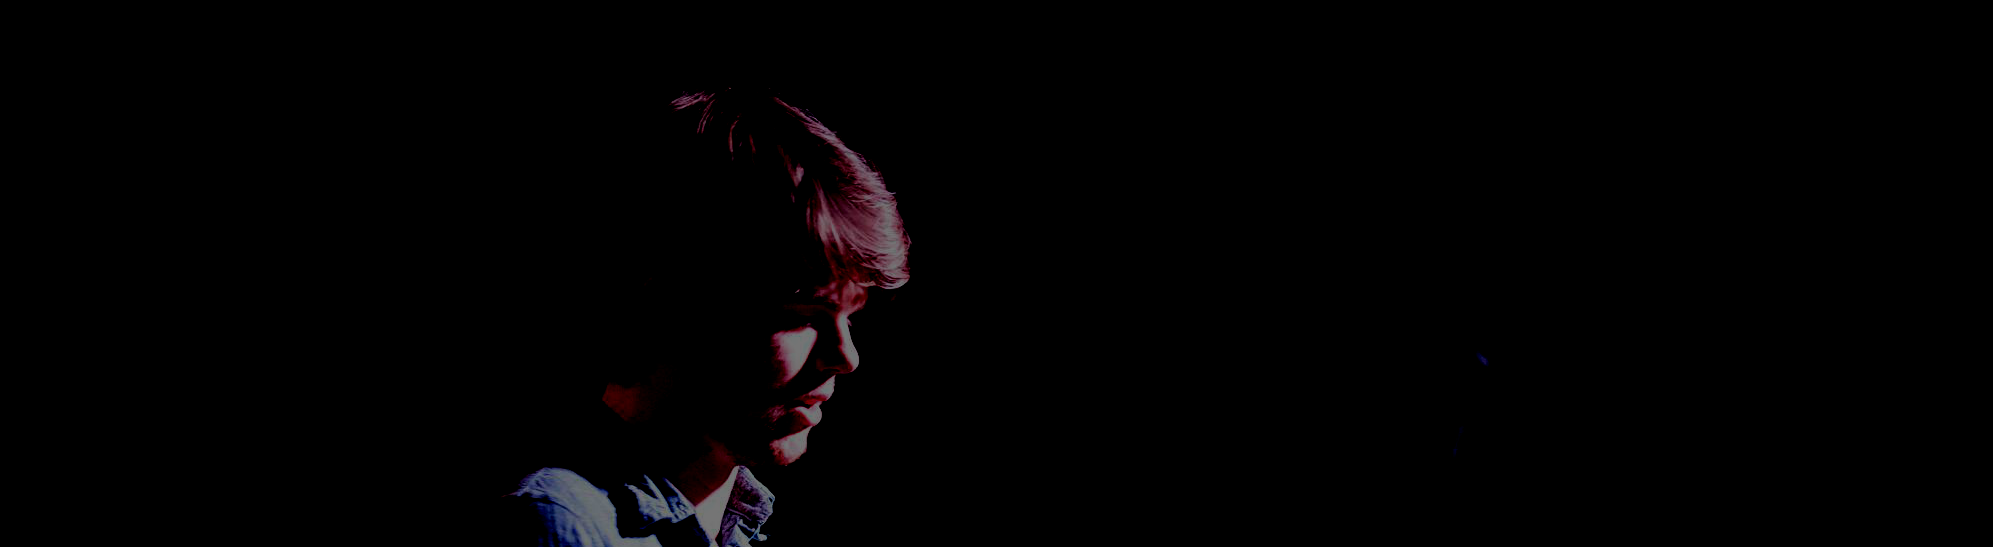
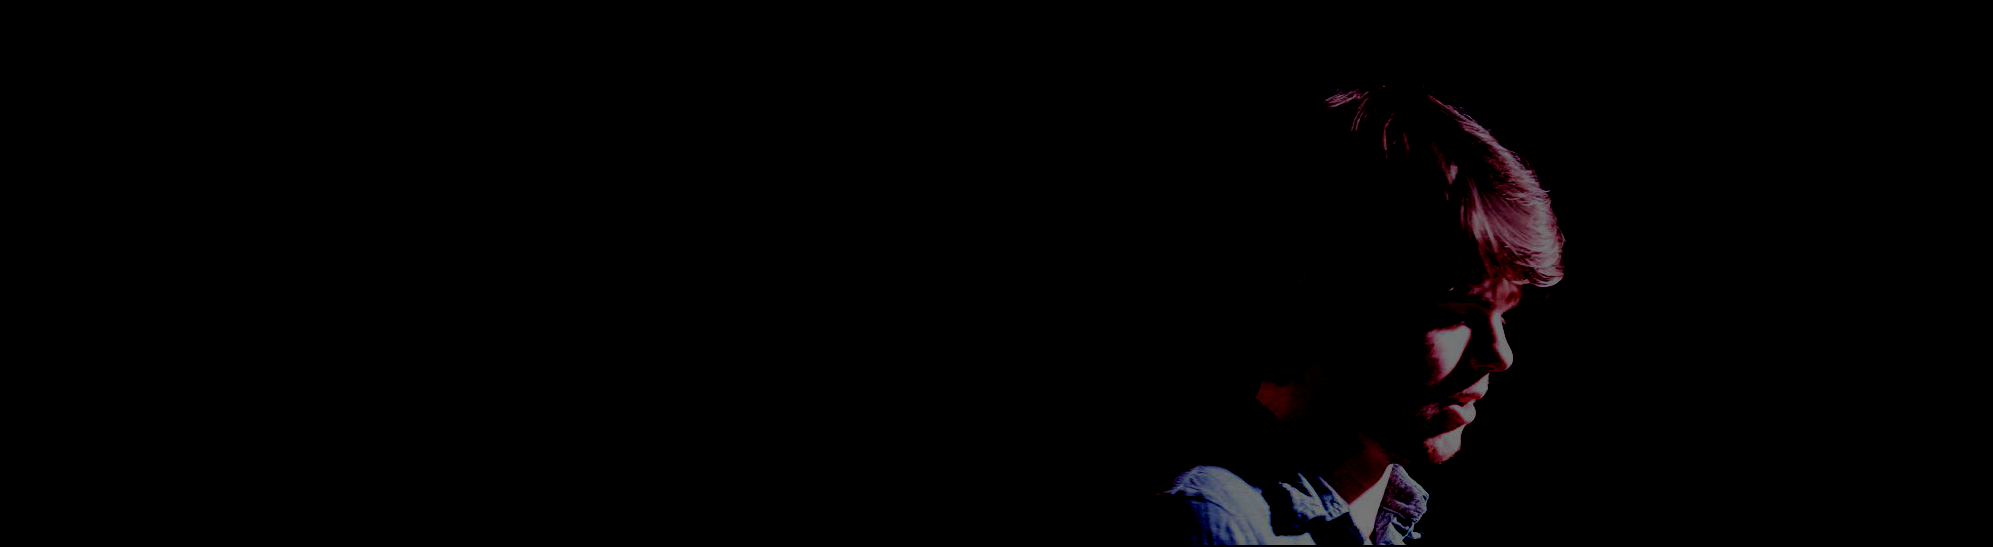
Created imagespace component

diff --git a/src/browser/pages/landing-page/landingPage.js b/src/browser/pages/landing-page/landingPage.js
@@ -2,6 +2,7 @@ import React from 'react';
 import Panel from '../../components/panel/panel';
 import Icon from '../../components/icon/icon';
 import Description from '../../components/description/description';
+import Imagespace from '../../components/imagespace/imagespace';
 
 const LandingPage = () =>
     <div>
@@ -9,18 +10,16 @@ const LandingPage = () =>
             <span className="menu__trigger">Menu</span>
             <span className="resume__trigger">My Resume</span>
         </div>
-        <Panel modifier="image" isHalf backgroundUrl={require('../../images/face-wide.png')}>
-            <div className="text-center">
-                <h1 className="heading-medium margin-bottom-small">Stefan McCready</h1>
-                <h2 className="heading-small">Designer - Developer</h2>
-                <div className="icon-set">
-                    <Icon iconName="facebook" setItem />
-                    <Icon iconName="instagram" setItem />
-                    <Icon iconName="github" setItem />
-                    <Icon iconName="twitter" setItem />
-                </div>
-            </div>
-        </Panel>
+        <Imagespace background={require('../../images/face-wide-v3.png')}>
+            <h1 className="heading-medium margin-bottom-small">Stefan McCready</h1>
+            <h2 className="heading-small">Designer - Developer</h2>
+            <div className="icon-set">
+                <Icon iconName="facebook" setItem />
+                <Icon iconName="instagram" setItem />
+                <Icon iconName="github" setItem />
+                <Icon iconName="twitter" setItem />
+             </div>
+        </Imagespace>
         <Panel modifier="alternative" isHalf>
             <div className="container">
                 <div className="section group">

diff --git a/src/browser/styles/scss/components/_imagespace.scss b/src/browser/styles/scss/components/_imagespace.scss
@@ -1,0 +1,45 @@
+$heroContentHeight: 500px;
+
+.imagespace-wrapper {
+  position: relative; /* [1] */
+  height: 600px; /* [2] */
+  min-height: 20em; /* [2] */
+  color: color(white); /* [3] */
+  background-position: center; /* [4] */
+  background-size: cover; /* [4] */
+}
+
+.imagespace {
+    overflow: hidden;
+    @include mq($from: tablet) {
+        height: $heroContentHeight;
+    }
+}
+
+.imagespace__background {
+    background-size: 100%;
+    background-repeat: no-repeat;
+
+    @include mq($from: tablet) {
+        height: $heroContentHeight;
+    }
+
+    @include mq($from: 1024px) {
+        background-position: center;
+        background-size: 1940px;
+    }
+}
+
+.imagespace__content {
+    position: relative;
+    padding-top: 55%;
+    padding-bottom: 30px;
+    color: #fff;
+
+    @include mq($from: tablet) {
+        padding-top: 0;
+        padding-bottom: 0;
+        top: 50%;
+        transform: translateY(-50%);
+    }
+}

diff --git a/src/browser/components/imagespace/imagespace.js b/src/browser/components/imagespace/imagespace.js
@@ -1,0 +1,29 @@
+import React from 'react';
+import PropTypes from 'prop-types';
+import classNames from 'classnames';
+
+const Imagespace = ({ background, children }) => {
+
+    const imagespaceBackground = {
+        backgroundImage: `url(${background})`,
+    };
+
+    return (
+        <div className="imagespace-wrapper">
+            <div className="imagespace">
+                <div className="imagespace__background" style={imagespaceBackground}>
+                    <div className="imagespace__content text-center">
+                        {children}
+                    </div>
+                </div>
+            </div>
+        </div>
+    );
+};
+
+Imagespace.propTypes = {
+    background: PropTypes.string.isRequired,
+    children: PropTypes.any,
+};
+
+export default Imagespace; 

diff --git a/src/browser/styles/scss/components/_panel.scss b/src/browser/styles/scss/components/_panel.scss
@@ -2,28 +2,11 @@
     position: relative;
     background-color: #af1e2d;
     color: #fff;
-    height: 100vh;
-    background-size: cover;
-    background-position-x: 300px;
-    background-repeat: no-repeat;
 }
 
 .panel--alternative {
     background-color: #fff;
     color: #af1e2d; 
-}
-
-.panel__container {
-    position: relative;
-    top: 50%;
-    transform: translateY(-50%);
-    padding: 0 25px;
-}
-
-.panel--narrow {
-    @include mq($from: tablet) {
-        height: 60vh;
-    }
 }
 
 .panel--image {

diff --git a/src/browser/styles/scss/all.scss b/src/browser/styles/scss/all.scss
@@ -15,3 +15,4 @@
 @import "components/resume";
 @import "components/description";
 @import "components/bar";
+@import "components/imagespace";
